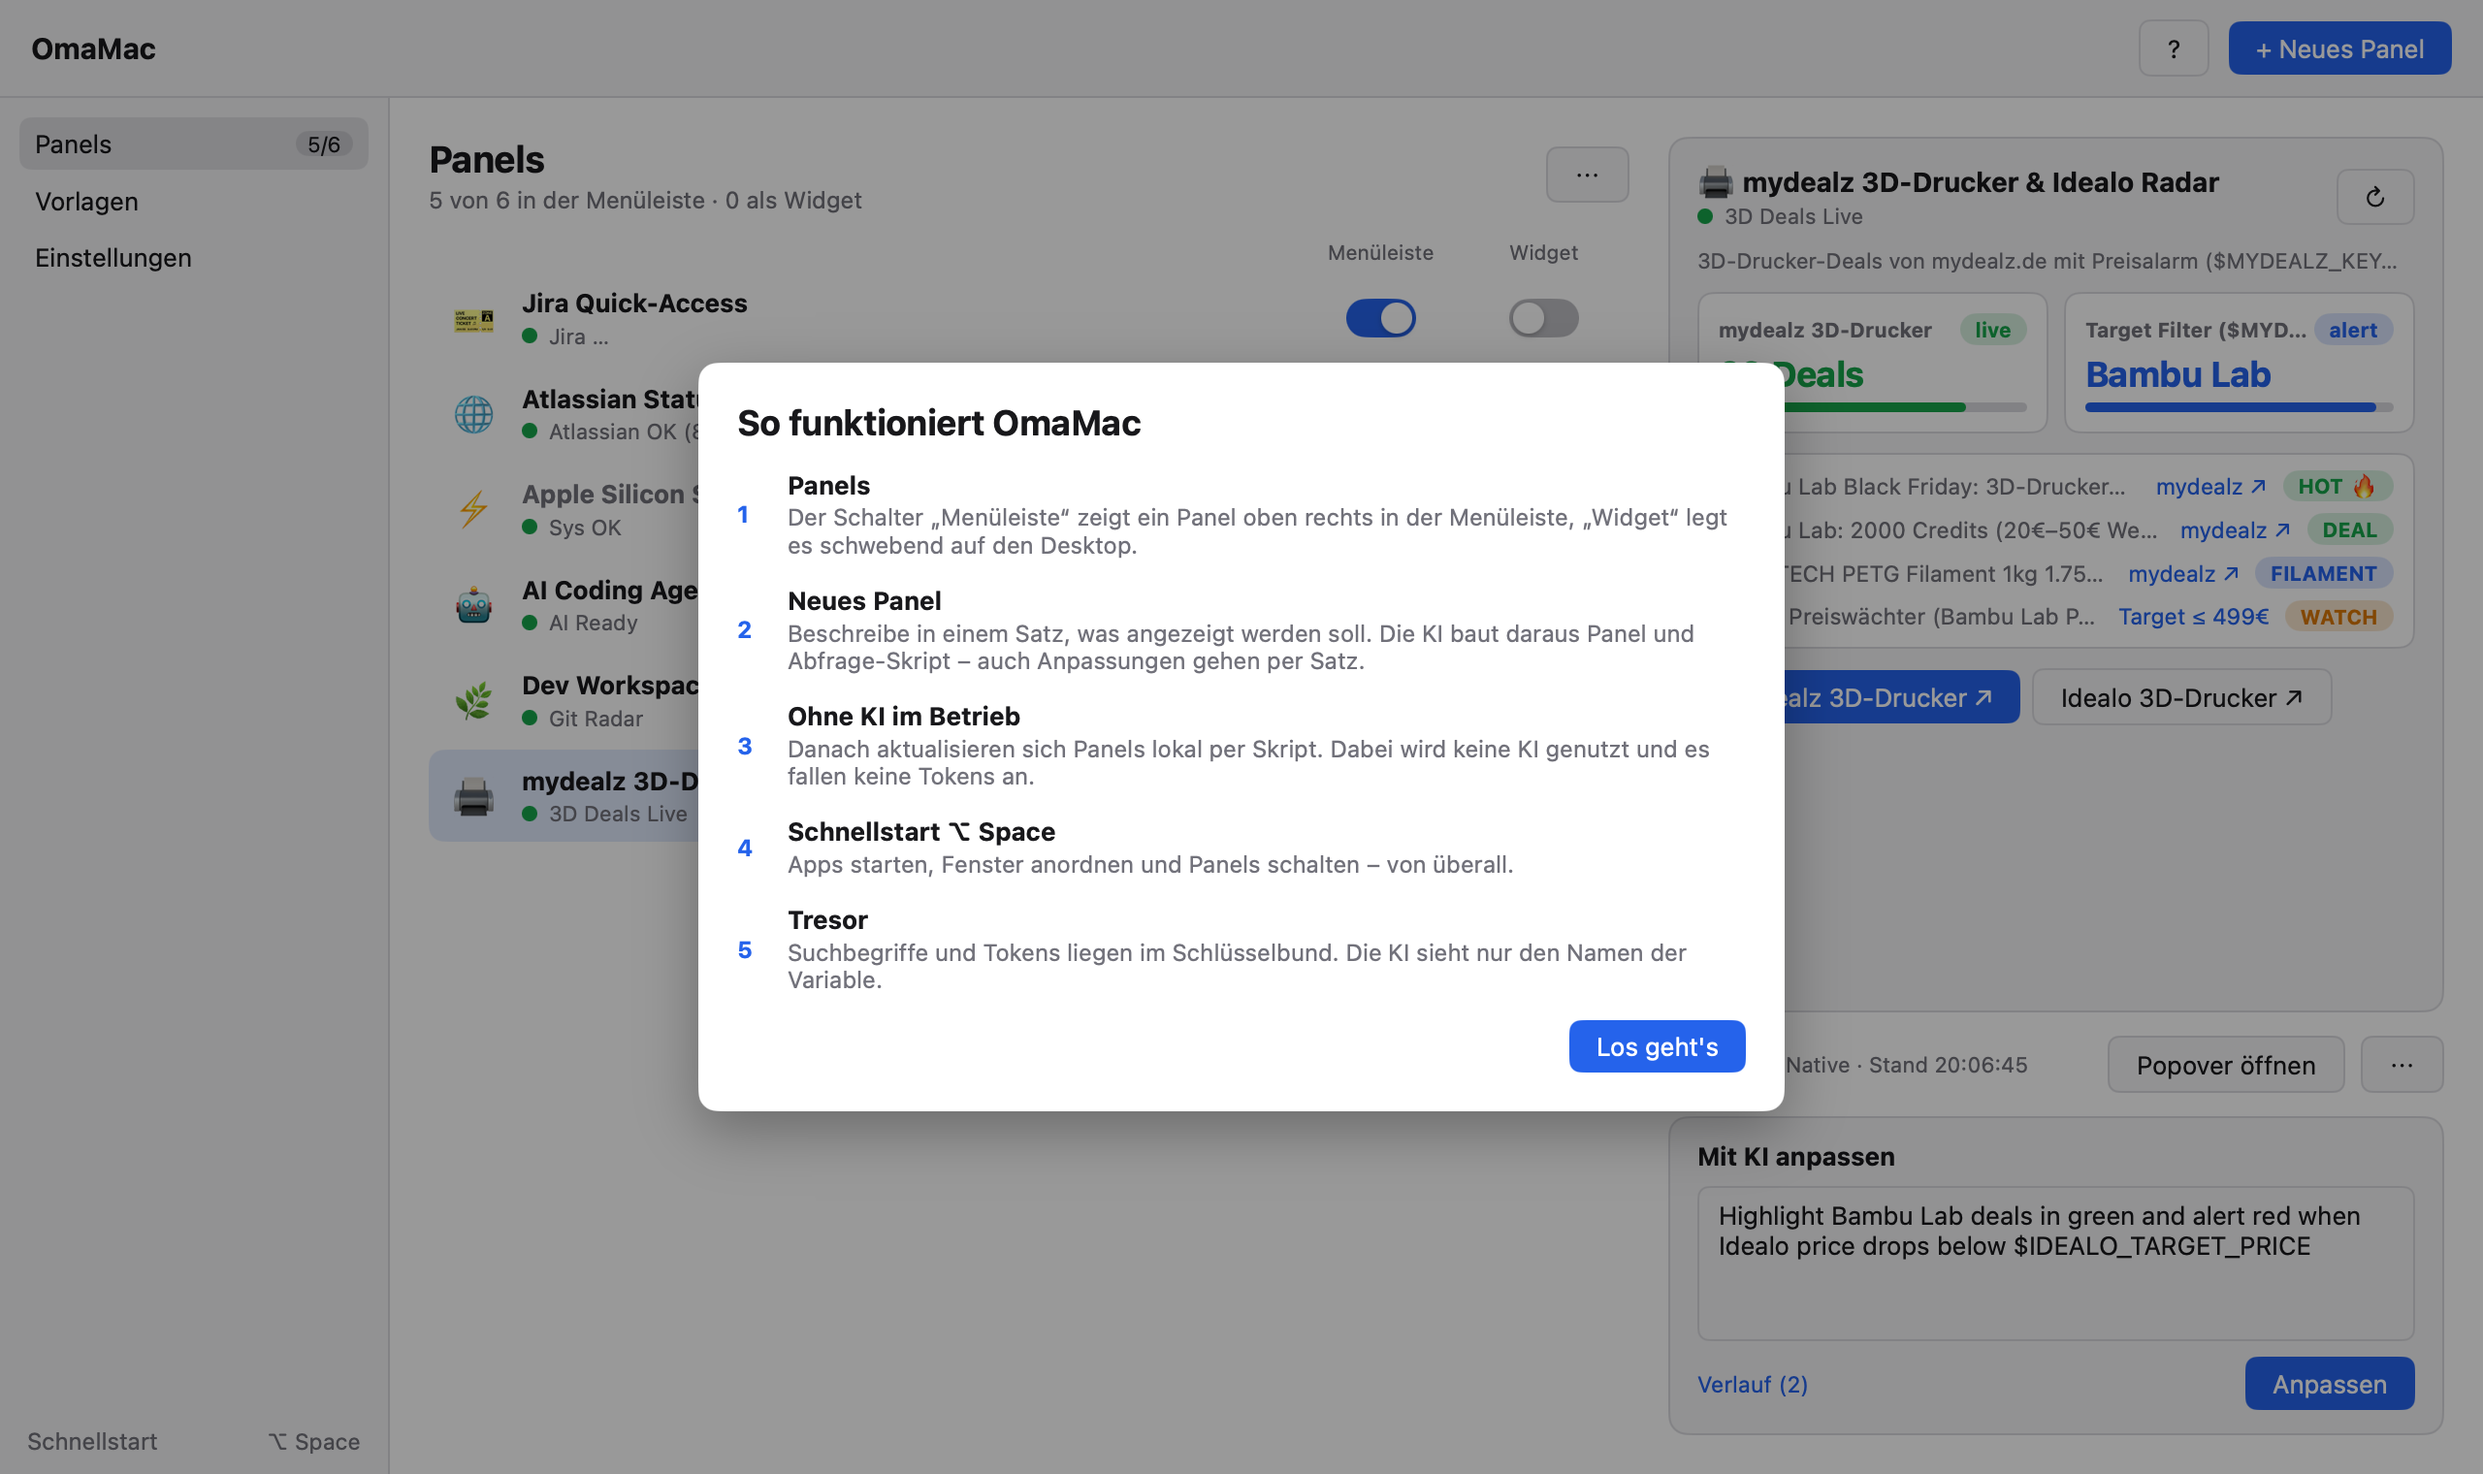
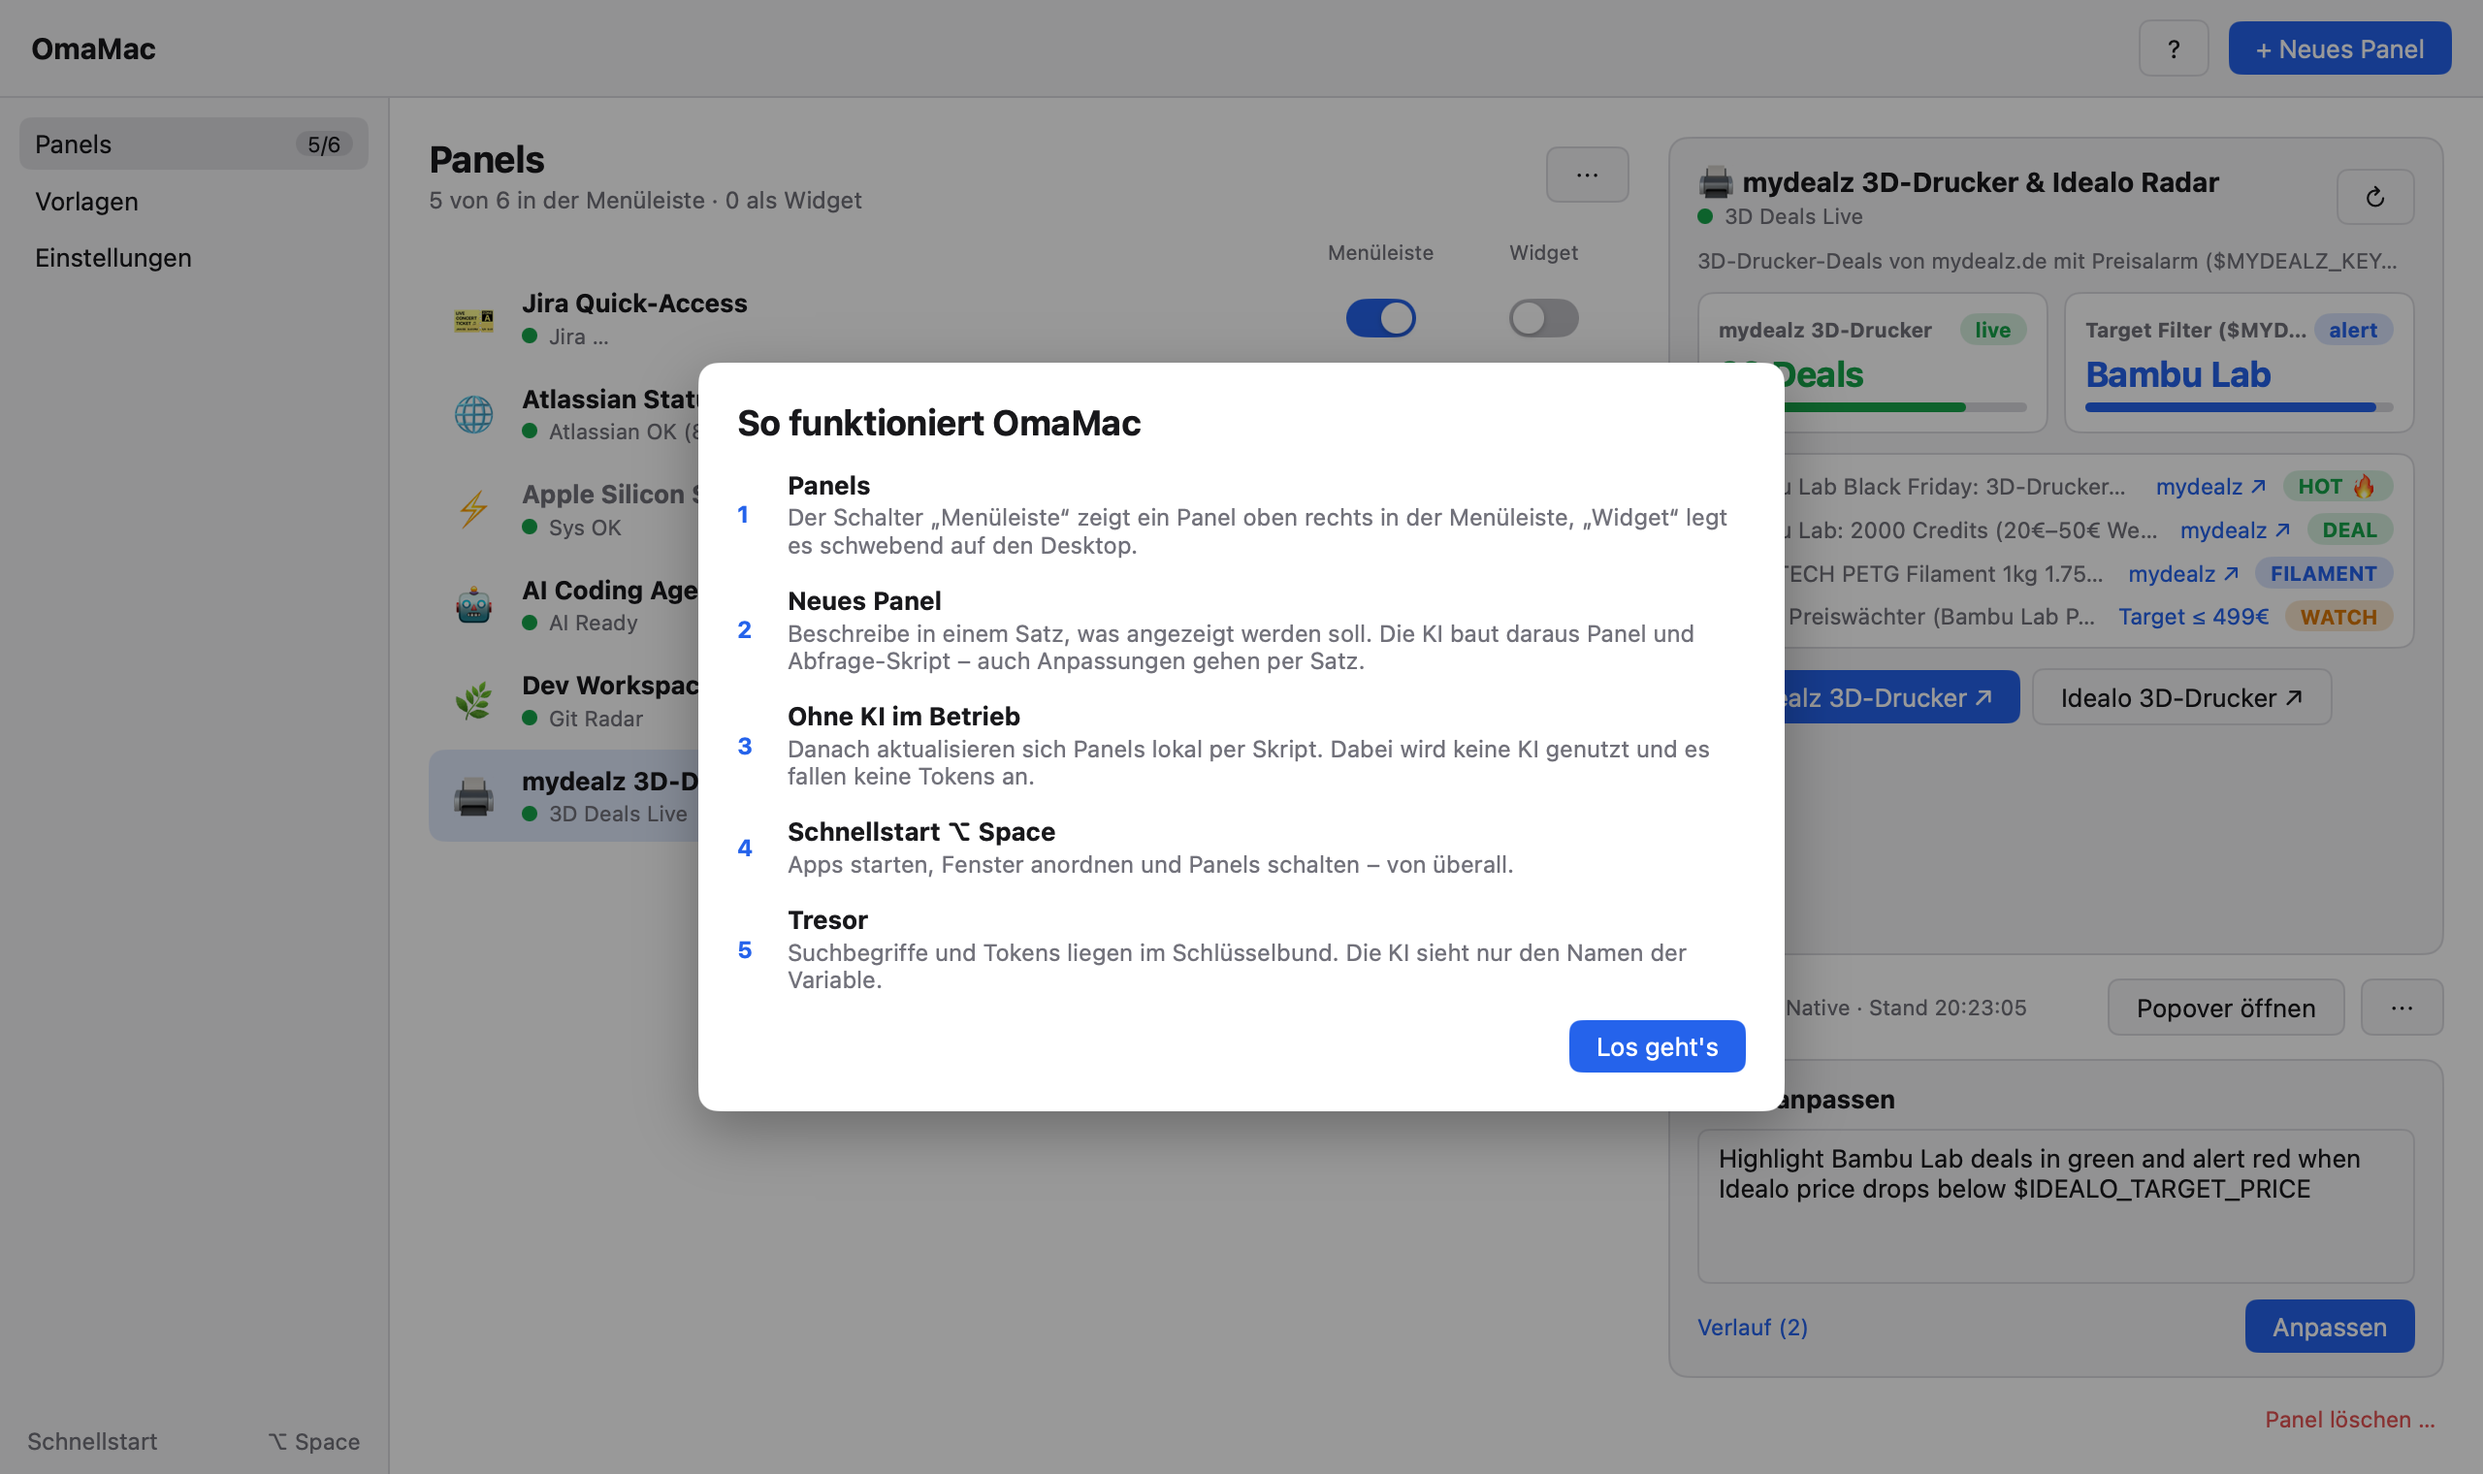
Make deleting a panel easy to find
A visible 'Panel löschen …' button in the detail column, the ⋯ items on
a right-click of the panel row, and ⌘⌫ for the chosen panel; all ask
first. System modules still cannot be deleted. Test covers the flow.

Changed region(s): [[0.6875, 0.6803, 1.0, 0.9895], [0.875, 0.6803, 0.9375, 0.7421], [0.6875, 0.8967, 0.7188, 0.9586]]

diff --git a/internal/omamac/view_panels.go b/internal/omamac/view_panels.go
@@ -39,6 +39,10 @@ func (a *App) renderTabOverview(c *ui.Context) {
 		})
 		a.renderPanelDetail(c)
 	})
+	// ⌘⌫ deletes the chosen panel (a focused text field keeps the keys for itself).
+	if c.Shortcut(ui.Cmd, ui.KeyBackspace) {
+		a.askDeletePanel(a.findPanel(a.selectedPanelID))
+	}
 	a.renderDeleteConfirm(c)
 }
 
@@ -71,6 +75,7 @@ func (a *App) renderPanelRow(c *ui.Context, prefix string, p *PanelSpec, selecta
 	row := ui.Row(c.Key(prefix+"-row-"+p.ID)).FillWidth().Padding(8, 12).Radius(8).AlignItems(ui.Center).Gap(10)
 	if selectable {
 		row.Cursor(ui.CursorPointer).OnClick(func() { a.selectPanel(p.ID) })
+		row.ContextMenu(func(m *ui.Menu) { a.panelMenuItems(m, p) })
 	}
 	switch {
 	case selectable && a.selectedPanelID == p.ID:
@@ -145,6 +150,23 @@ func (a *App) renderPanelDetail(c *ui.Context) {
 		})
 
 		a.renderPanelRefine(c, sel)
+
+		if !sel.IsBuiltin {
+			ui.Row(c).FillWidth().Children(func() {
+				ui.Spacer(c)
+				del := ui.ButtonBase(c.Key("detail-delete-"+sel.ID)).Cursor(ui.CursorPointer).Padding(2, 4)
+				hovered := del.Hovered()
+				del.Children(func() {
+					txt := ui.Text(c, "Panel löschen …").FontSize(11.5).TextColor(t.Danger.Alpha(0.8))
+					if hovered {
+						txt.TextColor(t.Danger)
+					}
+				})
+				if del.Tooltip("Löscht das Panel nach einer Rückfrage (⌘⌫)").Clicked() {
+					a.askDeletePanel(sel)
+				}
+			})
+		}
 	})
 }
 
@@ -189,29 +211,41 @@ func (a *App) renderPanelRefine(c *ui.Context, sel *PanelSpec) {
 	})
 }
 
-// renderPanelMoreMenu is the ⋯ menu of a panel: the rarer actions, deleting last.
+// renderPanelMoreMenu is the ⋯ menu of a panel; a right-click on its row opens the same items.
 func (a *App) renderPanelMoreMenu(c *ui.Context, p *PanelSpec) {
 	ui.Button(c.Key("detail-more-"+p.ID), "⋯").Tooltip("Weitere Aktionen").Menu(func(m *ui.Menu) {
-		if m.Item("Jetzt aktualisieren").Chosen() {
-			a.refreshPanelAsync(p, "„"+p.Title+"“ aktualisiert")
-		}
-		if !p.IsBuiltin {
-			label := "Als HTML-Ansicht darstellen"
-			if p.Type == PanelTypeHTML {
-				label = "Als native Ansicht darstellen"
-			}
-			if m.Item(label).Chosen() {
-				a.togglePanelType(p)
-			}
-			if len(a.panels) > 1 {
-				m.Separator()
-				if m.Item("Löschen …").Chosen() {
-					a.confirmDeleteID = p.ID
-					a.confirmDelete = true
-				}
-			}
-		}
+		a.panelMenuItems(m, p)
 	})
+}
+
+// panelMenuItems are a panel's actions in its ⋯ and right-click menus, deleting last.
+func (a *App) panelMenuItems(m *ui.Menu, p *PanelSpec) {
+	if m.Item("Jetzt aktualisieren").Chosen() {
+		a.refreshPanelAsync(p, "„"+p.Title+"“ aktualisiert")
+	}
+	if p.IsBuiltin {
+		return
+	}
+	label := "Als HTML-Ansicht darstellen"
+	if p.Type == PanelTypeHTML {
+		label = "Als native Ansicht darstellen"
+	}
+	if m.Item(label).Chosen() {
+		a.togglePanelType(p)
+	}
+	m.Separator()
+	if m.Item("Löschen …").Shortcut(ui.Cmd, ui.KeyBackspace).Chosen() {
+		a.askDeletePanel(p)
+	}
+}
+
+// askDeletePanel asks before deleting p; system modules cannot be deleted.
+func (a *App) askDeletePanel(p *PanelSpec) {
+	if p == nil || p.IsBuiltin {
+		return
+	}
+	a.confirmDeleteID = p.ID
+	a.confirmDelete = true
 }
 
 func (a *App) renderDeleteConfirm(c *ui.Context) {

diff --git a/internal/omamac/omamac_test.go b/internal/omamac/omamac_test.go
@@ -340,3 +340,58 @@ func TestAntigravityArgs(t *testing.T) {
 		t.Fatalf("args = %q, want %q", got, want)
 	}
 }
+
+// A panel is deleted with ⌘⌫ or the visible button, always after a confirmation;
+// system modules cannot be deleted.
+func TestDeletePanelFlow(t *testing.T) {
+	tmp := t.TempDir()
+	t.Setenv("HOME", tmp)
+	cfgPath := filepath.Join(tmp, "config.json")
+	cfg := DefaultConfig()
+	cfg.PanelsDir = filepath.Join(tmp, "panels")
+	cfg.OnboardingDismissed = true
+	_ = SaveConfig(cfgPath, cfg)
+	app, err := NewApp(cfgPath)
+	if err != nil {
+		t.Fatal(err)
+	}
+	const id = "04-mydealz-3d"
+	app.selectPanel(id)
+	tt := ui.NewTester(app.RenderStudioView, 1320, 820)
+
+	tt.Key(ui.Cmd, ui.KeyBackspace)
+	if !app.confirmDelete || app.confirmDeleteID != id {
+		t.Fatalf("⌘⌫ did not ask to delete %s", id)
+	}
+	if err := tt.Click("Löschen"); err != nil {
+		t.Fatalf("confirm: %v (texts %q)", err, tt.Texts())
+	}
+	if app.findPanel(id) != nil {
+		t.Fatalf("panel %s still there after confirming", id)
+	}
+	if _, err := os.Stat(filepath.Join(cfg.PanelsDir, id+".json")); !os.IsNotExist(err) {
+		t.Fatalf("panel file still on disk: %v", err)
+	}
+
+	// The visible button asks too
+	app.selectPanel("03-git-radar")
+	tt.Frame()
+	if err := tt.Click("Panel löschen …"); err != nil {
+		t.Fatal(err)
+	}
+	if !app.confirmDelete || app.confirmDeleteID != "03-git-radar" {
+		t.Fatalf("the button did not ask to delete")
+	}
+	tt.Key(0, ui.KeyEscape) // cancel
+	if app.findPanel("03-git-radar") == nil {
+		t.Fatalf("cancelling deleted the panel")
+	}
+
+	// System modules stay
+	app.selectPanel("00-atlassian-status")
+	tt.Frame()
+	tt.Key(ui.Cmd, ui.KeyBackspace)
+	if app.confirmDelete {
+		t.Fatalf("⌘⌫ offered to delete a system module")
+	}
+}

diff --git a/CHANGELOG.md b/CHANGELOG.md
@@ -5,6 +5,7 @@
 - **KI über Antigravity-Login funktioniert wieder:** Mit agy 1.5 schlug „Neues Panel“ und „Mit KI anpassen“ fehl („-p took --disable-slash-commands as its prompt“). Der Prompt wird jetzt korrekt übergeben.
 - Fehlermeldungen nennen den KI-Anbieter auch dann, wenn der Aufruf schon vorher scheitert.
 - Fenstertitel ist nur noch „OmaMac“.
+- **Panels löschen leichter auffindbar:** sichtbarer Button „Panel löschen …“ beim gewählten Panel, Rechtsklick auf eine Panel-Zeile (gleiches Menü wie „⋯“) und ⌘⌫. Es wird immer nachgefragt; System-Module lassen sich weiterhin nur ausschalten.
 
 ## 1.3.0
 
